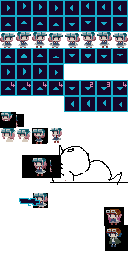
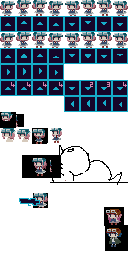
エフェクト

Changed region(s): [[0.0, 0.0, 1.0, 0.0625]]

diff --git a/src/Weapon/weapon1.js b/src/Weapon/weapon1.js
@@ -28,7 +28,10 @@ export default class Weapon1 extends Weapon{
       if(this.isTargetOn &&
         l == this.target.enemy) continue;
         //射程距離以内かつ
-      if(Util.distance(l.pos, player.pos) < this.length){
+      if(Util.distance(l.pos, player.pos) < this.length
+        //dirとなす角がPI/4以内
+      // &&((player.pos.y-l.pos.y)/(player.pos.x-l.pos.x)) < 1
+       ){
           //既にロックオンされている敵より近ければ
         if(!this.isTargetOn ||
           Util.distance(l.pos , player.pos) < Util.distance(this.target.pos,player.pos)){
@@ -58,11 +61,10 @@ export default class Weapon1 extends Weapon{
   shot(player){
     //最後に撃ってからframeまで停止
     if(this.frame % this.agi == 0){
-        /* ■ SoundEffect : shot */
         let vi = this.speed;
         let v = {
-          x: vi * Math.cos(player.arg),
-          y: vi * Math.sin(player.arg)
+          x: vi * Math.cos(player.arg + (Math.random()-0.5)/5),
+          y: vi * Math.sin(player.arg + (Math.random()-0.5)/5)
         }
         let p = {
           x: player.pos.x + 5 * Math.cos(player.arg),
@@ -70,7 +72,8 @@ export default class Weapon1 extends Weapon{
         }
         let bullet = new Bullet1(p,v);
         EntityManager.addEntity(bullet);
-        //エフェクト
+        /* ■ SoundEffect : shot */
+        /* □ Effect : shot */
         p.x += v.x;
         p.y += v.y;
         EntityManager.addEntity(new BulletShot(p,{x:0,y:0}));

diff --git a/src/Entity/bullet1.js b/src/Entity/bullet1.js
@@ -9,17 +9,20 @@ import TestAI from './AI/testAI.js';
 import Util from '../util.js';
 import Bullet1AI from './AI/bullet1AI.js';
 import Bullet from './bullet.js';
+import BulletBlur from './bulletBlur.js';
 
 /*bullet1クラス*/
 export default class Bullet1 extends Bullet{
   constructor(pos,vel){
     super(pos,vel,{x:0,y:0});
+    /*基本情報*/
+    this.frame = 0;
     /*スプライト*/
     this.tex = Art.bulletPattern[0];
     this.sprite = Art.SpriteFactory(this.tex);
     this.sprite.position = pos;
     /*コライダ*/
-    this.collisionShape = new CollisionShape(SHAPE.BOX,new Box(pos,16,16));//衝突判定の形状
+    this.collisionShape = new CollisionShape(SHAPE.BOX,new Box(pos,8,8));//衝突判定の形状
     /*パラメータ*/
     this.hp = 1;//弾丸のHP 0になると消滅
     this.atk = 1;//攻撃力
@@ -35,5 +38,10 @@ export default class Bullet1 extends Bullet{
     for (let AI of this.AIList){
       AI.Do();
     }
+    /*□Effect BulletBulr*/
+    if(this.frame%2 == 0){
+      EntityManager.addEntity(new BulletBlur(this.pos,{x:0,y:0}));
+    }
+    this.frame++;
   }
 }

diff --git a/src/Entity/AI/bullet1AI.js b/src/Entity/AI/bullet1AI.js
@@ -1,6 +1,7 @@
 import EntityManager from '../../Stage/entityManager.js';
 import Collision from '../../Collision/collision.js';
 import Util from '../../util.js';
+import BulletHitWall from '../bulletHitWall.js';
 
 export default class Bullet1AI{
   /*bulletの参照を受け取り関数を実行する*/
@@ -23,12 +24,18 @@ export default class Bullet1AI{
           if(Collision.on(this.bullet,l).isHit){
             l.hp-=this.bullet.atk;
             this.bullet.hp = 0;
+            /* ■ SoundEffect : hitWall */
+            /* □ Effect : hitWall */
+            EntityManager.addEntity(new BulletHitWall(this.bullet.pos,{x:0,y:0}));
           }
           break;
         case ENTITY.WALL :
           /*衝突判定*/
           if(Collision.on(this.bullet,l).isHit){
             this.bullet.hp = 0;
+            /* ■ SoundEffect : hitWall */
+            /* □ Effect : hitWall */
+            EntityManager.addEntity(new BulletHitWall(this.bullet.pos,{x:0,y:0}));
           }
           break;
       }

diff --git a/src/art.js b/src/art.js
@@ -61,7 +61,15 @@ export default class Art{
       PIXI.Texture.fromFrame('bullet40.png'),//bullet shot
       PIXI.Texture.fromFrame('bullet41.png'),//bullet shot
       PIXI.Texture.fromFrame('bullet42.png'),//bullet shot
-      PIXI.Texture.fromFrame('bullet43.png') //bullet shot
+      PIXI.Texture.fromFrame('bullet43.png'),//bullet shot
+      PIXI.Texture.fromFrame('bullet50.png'),//bullet hit at wall
+      PIXI.Texture.fromFrame('bullet51.png'),//bullet hit at wall
+      PIXI.Texture.fromFrame('bullet52.png'),//bullet hit at wall
+      PIXI.Texture.fromFrame('bullet53.png'),//bullet hit at wall
+      PIXI.Texture.fromFrame('bullet60.png'),//bullet blur
+      PIXI.Texture.fromFrame('bullet61.png'),//bullet blur
+      PIXI.Texture.fromFrame('bullet62.png'),//bullet blur
+      PIXI.Texture.fromFrame('bullet63.png') //bullet blur
     ];
     this.enemyPattern = [
       PIXI.Texture.fromFrame('enemy00.png'),

diff --git a/src/Entity/bulletHitWall.js b/src/Entity/bulletHitWall.js
@@ -1,0 +1,29 @@
+import Enemy from './enemy.js';
+import EFFECT from './effect.js';
+import Art from '../art.js';
+import EntityManager from '../Stage/entityManager.js';
+import Util from '../util.js';
+
+/*bullet1壁にぶつかった時した時のエフェクト*/
+export default class BulletHitWall extends EFFECT{
+  constructor(pos){
+    super(pos,{x:0,y:0});
+    /*基本情報*/
+    this.type = ENTITY.EFFECT;
+    this.frame = 0;
+    /*スプライト*/
+    this.spid = 8; //8~11
+    this.tex = Art.bulletPattern[this.spid];
+    this.sprite = Art.SpriteFactory(this.tex);
+    this.sprite.position = this.pos;
+  }
+
+  Update(){
+    this.sprite.texture = Art.bulletPattern[this.spid];
+    this.spid = 8 + Math.floor(this.frame/3);
+    if(this.spid == 12){
+      EntityManager.removeEntity(this);
+    }
+    this.frame++;
+  }
+}

diff --git a/src/Entity/bulletBlur.js b/src/Entity/bulletBlur.js
@@ -1,0 +1,29 @@
+import Enemy from './enemy.js';
+import EFFECT from './effect.js';
+import Art from '../art.js';
+import EntityManager from '../Stage/entityManager.js';
+import Util from '../util.js';
+
+/*bullet1残像*/
+export default class BulletBlur extends EFFECT{
+  constructor(pos){
+    super(pos,{x:0,y:0});
+    /*基本情報*/
+    this.type = ENTITY.EFFECT;
+    this.frame = 0;
+    /*スプライト*/
+    this.spid = 12; //12~15
+    this.tex = Art.bulletPattern[this.spid];
+    this.sprite = Art.SpriteFactory(this.tex);
+    this.sprite.position = this.pos;
+  }
+
+  Update(){
+    this.sprite.texture = Art.bulletPattern[this.spid];
+    this.spid = 12 + Math.floor(this.frame/2);
+    if(this.spid == 16){
+      EntityManager.removeEntity(this);
+    }
+    this.frame++;
+  }
+}
